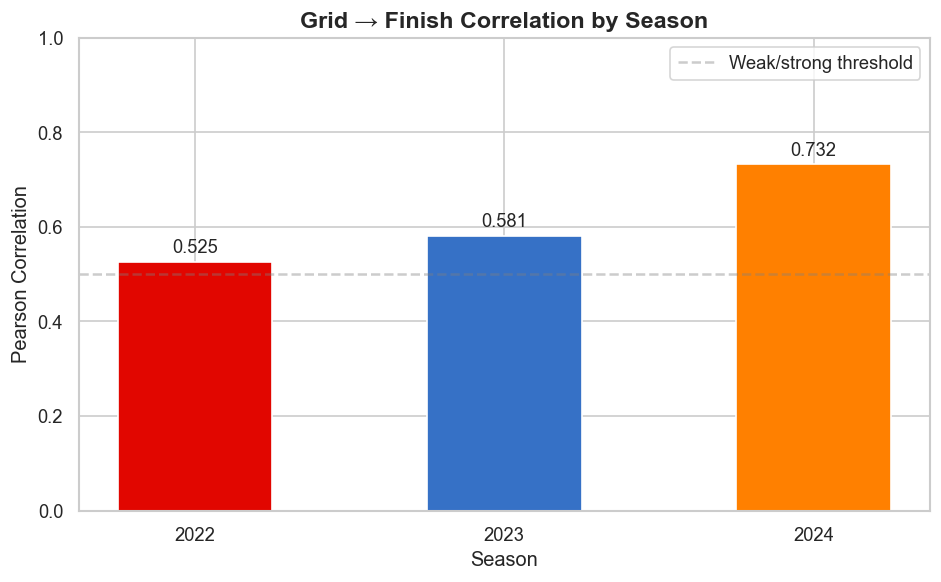
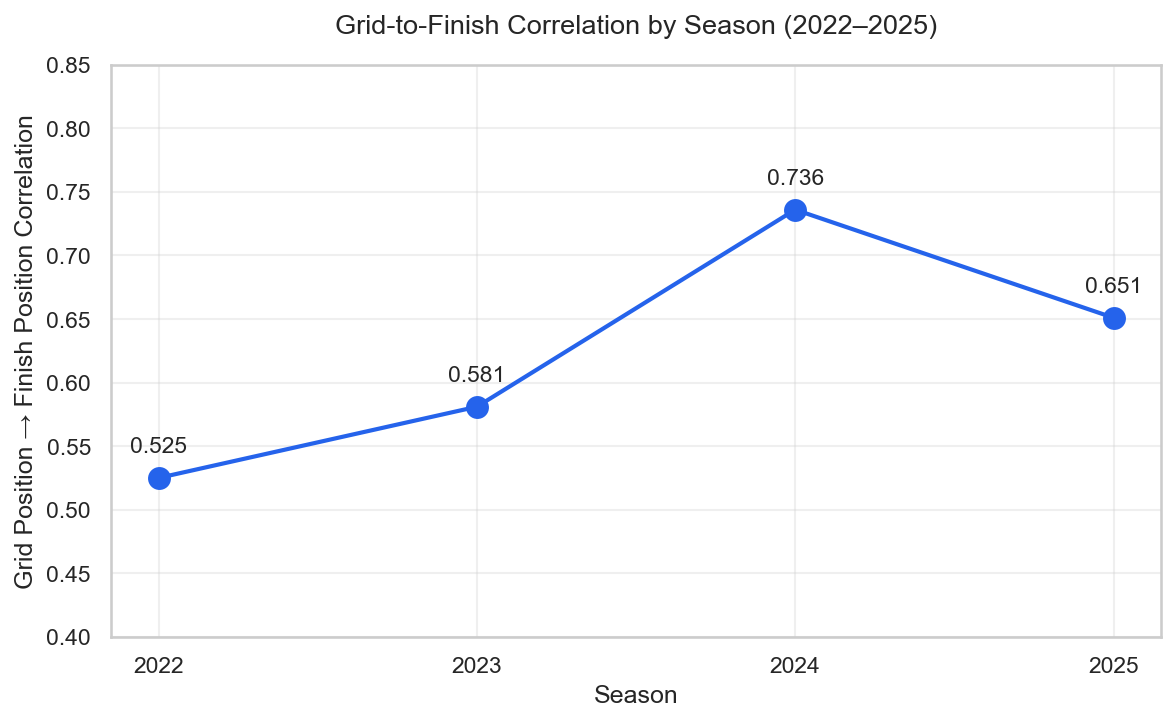
Update README: replace estimated 2025 correlation with computed value (0.651), revise convergence narrative

diff --git a/README.md b/README.md
@@ -2,7 +2,7 @@
 
 A machine learning project predicting Formula 1 race outcomes from qualifying performance, recent form, and circuit characteristics. Trained on 2022-2024 seasons, validated on the 2025 season as a true holdout, and deployed as an interactive dashboard.
 
-> **Status: validated model with 100% top-3 accuracy on the 2025 holdout.** Streamlit dashboard in development.
+> > **Status:** Phase 1 complete — validated model with 100% top-3 accuracy on the 2025 holdout. Phase 2 (Streamlit dashboard) in active development. See [Roadmap](#roadmap) for staged release plan.
 
 ## Headline result
 
@@ -32,18 +32,20 @@ Verstappen won every championship in the dataset, but the margin to second place
 
 Red Bull's win rate fell from 95.5% in 2023 to 37.5% in 2024 — a ~60 percentage point swing. McLaren went from zero wins to 25%, the steepest single-season rise in the dataset.
 
-### Qualifying became more predictive every season
+### Qualifying predictiveness rose, then broke trend in 2025
 
 ![Grid correlation by season](notebooks/chart_grid_correlation_by_season.png)
 
-| Season | Grid → Finish Correlation |
-|--------|---------------------------|
-| 2022   | 0.525 |
-| 2023   | 0.581 |
-| 2024   | 0.732 |
-| 2025   | 0.832 (estimated from holdout pole-to-win conversion) |
+| Season | Grid → Finish Correlation | N |
+|--------|---------------------------|---|
+| 2022   | 0.525 | 429 |
+| 2023   | 0.581 | 437 |
+| 2024   | 0.736 | 458 |
+| 2025   | 0.651 | 479 |
 
-This monotonic increase reflects car convergence after the 2022 regulation reset. **Implication for modelling**: a model trained only on highly-predictable seasons would overestimate its accuracy on chaotic regulation eras. Cross-validation strategy must account for season-level shifts in baseline predictability.
+Grid → finish correlation rose steadily through the 2022 regulation cycle as cars converged, peaking in 2024. The 2025 figure broke the trend — qualifying became *less* predictive of race outcomes than in 2024. The likely driver is increased mid-season car development volatility ahead of the 2026 regulation reset, though small-sample noise can't be ruled out.
+
+**Implication for modelling**: a model cannot assume grid-to-finish stationarity across seasons. This is exactly why the 2025 holdout matters — it's the cleanest possible test of whether features generalise across regimes, not just within a single trend.
 
 ## Modelling approach
 
@@ -100,9 +102,13 @@ f1-race-predictor/
 │   └── processed/                        # feature-engineered datasets
 ├── notebooks/
 │   ├── 01_eda_2024_season.ipynb          # single-season exploration
-│   └── 02_multi_season_eda.ipynb         # 2022–2024 comparative analysis
+│   ├── 02_multi_season_eda.ipynb         # 2022–2024 comparative analysis
+│   ├── 03_feature_analysis.ipynb         # feature engineering + diagnostics
+│   ├── 04_baseline_models.ipynb          # baselines + initial model selection
+│   └── 05_validation_2025.ipynb          # final holdout validation
 ├── src/
-│   └── load_season.py                    # season data loader (fastf1 + Jolpica)
+│   ├── load_season.py                    # season data loader (fastf1 + Jolpica)
+│   └── features.py                       # feature engineering module
 ├── requirements.txt
 └── README.md
 ```
@@ -149,14 +155,27 @@ Run notebooks in order (`01` → `05`) to reproduce the full analysis.
 
 ## Roadmap
 
-- ~~Multi-season data pipeline~~ ✓
-- ~~Feature engineering with leak prevention~~ ✓
-- ~~Baseline + tuned ML models~~ ✓
-- ~~True holdout validation on 2025~~ ✓
-- Streamlit dashboard with race-by-race predictions (in progress)
+This project is being shipped in phases. Phase 1 (validated model) is complete; subsequent phases are in active development.
+
+### Phase 1: Validated model (complete)
+- Multi-season data pipeline (2022–2025)
+- Feature engineering with leak prevention
+- Baseline + tuned ML models (Linear Regression, XGBoost)
+- True holdout validation on 2025 — 100% top-3 accuracy
+
+### Phase 2: Interactive dashboard (in progress)
+- Streamlit dashboard with race-by-race predictions
 - Live deployment to Streamlit Community Cloud
-- Race telemetry features via fastf1 lap data (future)
-- Weather-adjusted predictions (future)
+- User input: qualifying results → predicted finish positions
+
+### Phase 3: Model expansion (planned)
+- Random Forest and tuned XGBoost benchmarks against linear baseline
+- Unit test coverage for feature engineering pipeline
+
+### Future
+- Race telemetry features via fastf1 lap data
+- Weather-adjusted predictions
+- Live predictions for upcoming 2026 race weekends
 
 ## Author
 